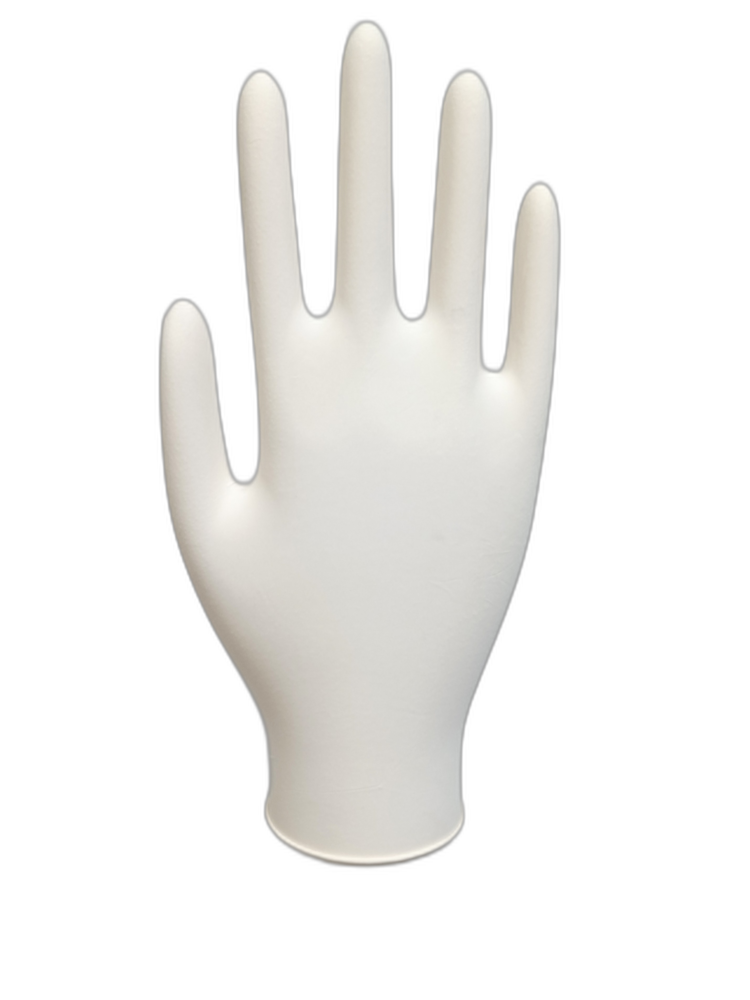
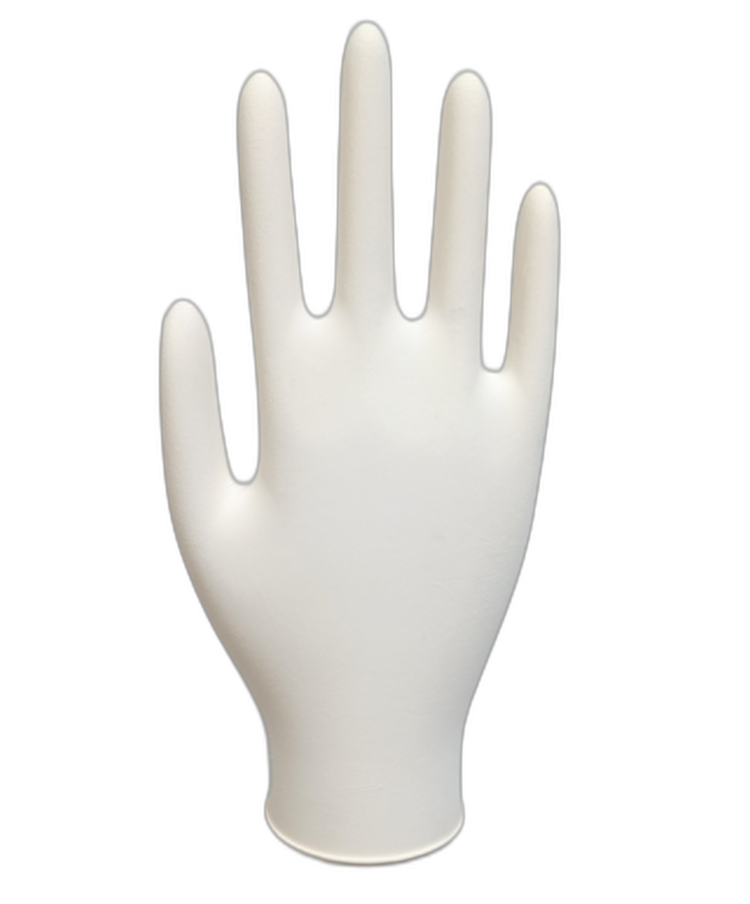
Catalogue: 17 mil Diamond Latex card photo uses blue (B angle) instead of orange

diff --git a/src/data/catalogue.ts b/src/data/catalogue.ts
@@ -100,7 +100,7 @@ assign("gc-zig-dualtone.png", ["zig-8-nitrile"]);
 assign("gc-zig-latex-blue.png", ["zig-14-latex-long"]);
 // Micro Diamond latex long cuff (blue); orange silverline household (diamond latex)
 assign("gc-microdiamond-latex-blue.png", ["micro-diamond-14-latex-long"]);
-assign("gc-silverline-orange.png", ["diamond-17-latex-long"]);
+assign("colours/c-dia-l-l-blue-b.png", ["diamond-17-latex-long"]);
 // Diamond latex long, 14 mil green household (HHDT green)
 assign("gc-diamond-green-latex-long.png", ["diamond-14-latex-long"]);
 // Latex, black / white short cuff
